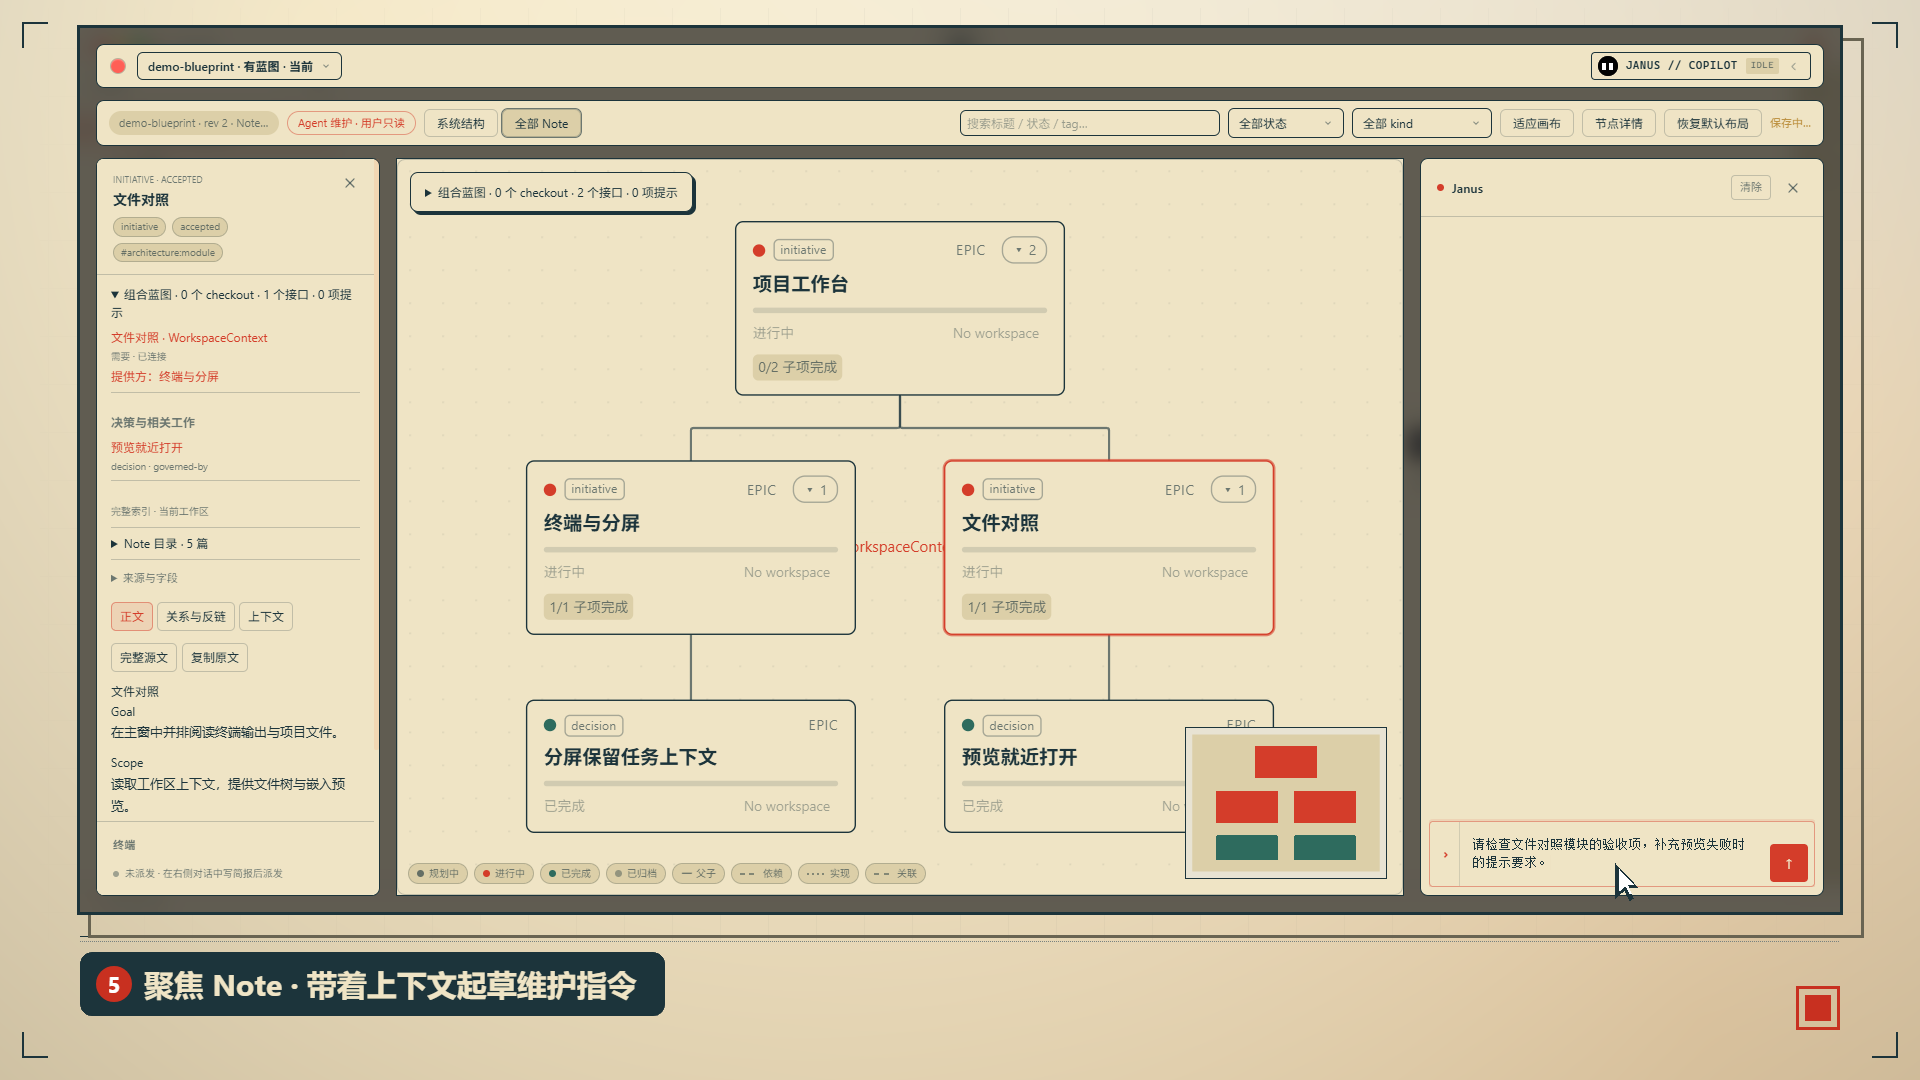
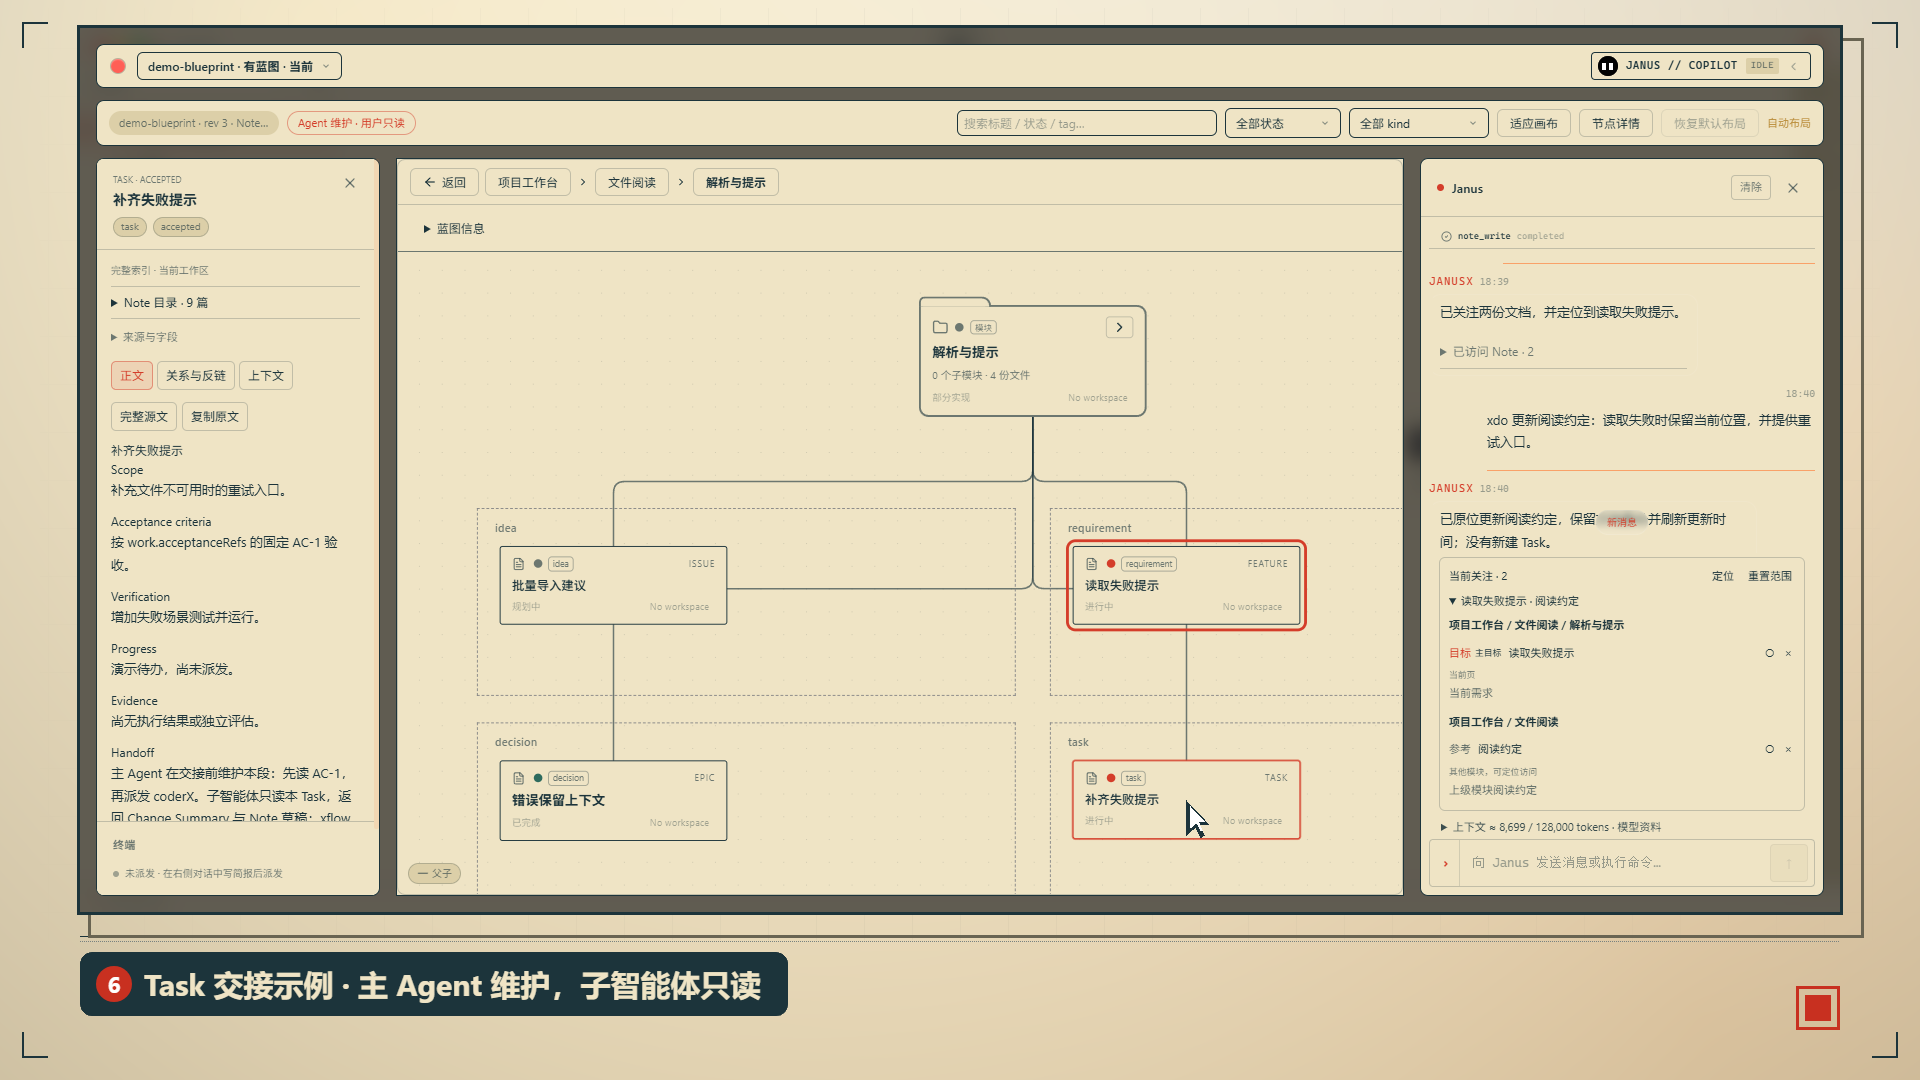
docs(showcase): demonstrate maintained modules and Note tools; Note .agents/notes/desktop/readme-showcase.md

diff --git a/README.md b/README.md
@@ -166,18 +166,18 @@ JanusX 桌面工作台（planche 石板色）
 
 ### 07 · 蓝图：把项目拆成看得见的结构
 
-在设置的创新功能中开启蓝图后，点击标题栏 **蓝图工作台**。顶部按工作区切换，**系统结构** 展示项目、模块与接口连接，**全部 Note** 展示规划和决策等记录；左侧阅读节点正文与关联信息，右侧 Janus Copilot 围绕当前焦点对话。
+在设置的创新功能中开启蓝图后，点击标题栏 **蓝图工作台**。单根项目直接展示根模块页：模块自身、直属子模块和文件同屏呈现。单击模块在左侧预览正文，双击进入该模块，保留父节点；通过面包屑逐层返回。
 
 <p align="center">
-  <img src="wiki/assets/showcase/feature-blueprint-workbench.gif" alt="蓝图演示：系统结构、模块接口、关联决策、全部 Note 与上下文对话" width="880" />
+  <img src="wiki/assets/showcase/feature-blueprint-workbench.gif" alt="蓝图演示：模块预览与逐层浏览、跨模块关注定位、原位维护 Note 和 Task 交接示例" width="880" />
   <br/>
-  <sub>真实应用录制：打开项目与模块结构 → 查看文件对照模块的职责和接口 → 追溯关联决策 → 切换全部 Note → 聚焦模块并起草维护指令。示例 Note 保存在隔离演示仓库；指令未发送，不调用模型。</sub>
+  <sub>真实应用录制：预览模块 → 进入子模块并返回 → 跨模块关注与定位 → 原位更新阅读约定 → 查看 Task 交接示例。九篇示例文档覆盖六种类型；本地脚本模型驱动真实读取、写入和界面更新，不调用外部模型。Task 是尚未执行的示例待办。</sub>
 </p>
 
-- **三列布局**：节点预览（目标 / 验收项 / 关联文件）· 项目规划图（parent / 接口 / 跨工作区边）· Janus 对话（带着当前焦点的一批 Note）。
-- **接口契约**：模块声明`提供 / 需要`的接口，悬空需求与闲置供给在图上一眼看出。
-- **单一控制面**：画布不承载写操作。对话框上方一条动作栏，三个主动作：`整理 Note` 把讨论整理成可审批提案（一次点击可全批非删除项，删除需单独确认）、`目标终端` 选派发目标、`派发` 让 Janus 整理涉及 Note 并写成实施简报预填进终端。需求正文以 Note 为准，经提案审批落盘。
-- **只读优先**：结构编辑本地可体验；AI 分析和维护需要模型配置。蓝图存为标准 harness note，规划与证据分离又可绑定。
+- **模块与文件有区别**：模块使用容器卡片，普通文件按类型分组。每层可同时保留主题文档和子模块，不要求所有内容都放到最底层。
+- **关注与浏览分开**：关注列表按模块分组；加入关注保留当前页面，明确预览、进入或定位时才导航。返回恢复先前选中、正文与视口。
+- **文档持续维护**：对话可调用共享 Note 工具，原位维护已有主题并刷新 `updated`。普通 `xdo` 不新建 Task；需要模型配置才能使用 AI 分析与维护。
+- **Task 承接交接**：主 Agent 在交接前更新同一 Task 的进展、证据和 Handoff；子智能体只读 Task 并返回结果。模块状态与执行验收分别维护。
 
 ---
 
@@ -314,17 +314,9 @@ npm run package:linux
 <details>
 <summary><b>蓝图 · 把项目拆成可查看的结构</b></summary>
 
-点击标题栏的 **蓝图工作台**，用树状节点组织目标、功能、任务和问题，查看节点详情、进度与关联信息。节点聚焦和 Janus Copilot 为围绕具体任务工作提供入口。新的石板色演示见上文「07 · 蓝图」。
+蓝图把 `.agents/notes/` 中的模块文档呈现为可逐层浏览的页面，左侧读取文档原文，右侧对话使用当前模块、选中项和关注列表。搜索可从完整来源定位所属模块；未归属文档、历史文档与解析诊断保留入口。
 
-**创新功能**：
-
-- **三列联动**：节点预览（目标 / 验收项 / 关联文件）· 项目规划图（parent / 接口 / 跨工作区边）· Janus 对话（带着当前焦点的一批 Note），点一个节点即三列联动。
-- **接口契约可视化**：模块声明`提供 / 需要`的接口，悬空需求与闲置供给在图上一眼看出。
-- **AI 驱动维护**：对话上下文跟着画布焦点走——选中节点读整棵子树，用搜索/状态/kind 筛选就读命中的那一批；Copilot 可分析节点、生成维护指令、提案 diff，对话确认后由 agent 核验指引宿主应用。
-- **对话派发到终端**：点「派发」一次，Janus 依据本次对话整理出涉及的 Note 并写成实施简报（目标 / 步骤 / 验收 / 约束），预填进目标终端。终端就是审阅面——读、改、回车才开工；终端绑定到节点，关闭时自动触发该节点的最终分析。
-- **规划证据分离**：蓝图存为标准 harness note，规划与证据分离又可绑定，支持跨工作区依赖追踪。
-
-结构编辑可在本地体验；AI 分析和维护需要模型配置。
+文档使用 `harness-note/2`：module、note、idea、requirement、decision、task 各自承担职责，稳定 UUID 标识文档。模块状态、文档生命周期和 Task 执行结果分别显示。当前导航与维护录制见上文「07 · 蓝图」；跨仓接入与独立评审进度见[接入计划](.agents/notes/blueprint/workflowx-v2-adoption.md)。
 
 </details>
 

diff --git a/.agents/notes/blueprint/workflowx-v2-adoption.md b/.agents/notes/blueprint/workflowx-v2-adoption.md
@@ -5,7 +5,7 @@
   "kind": "note",
   "lifecycle": "accepted",
   "created": "2026-10-08",
-  "updated": "2026-10-08T09:10:33.782Z",
+  "updated": "2026-10-08T10:44:48.910Z",
   "module": "note://972afef3-2fc7-49de-a3ee-7e041225d28c/f12d99b4-c116-48dc-96d9-e3ac74ae41cd",
   "codeRefs": [
     {"repoId":"972afef3-2fc7-49de-a3ee-7e041225d28c","path":"src/main/harness/note-authoring.ts","role":"entry"},
@@ -50,16 +50,16 @@ Chat 的 Note 工具复用共享服务，并保留 workspace.read、workspace.ed
 
 ## 后续实施顺序
 
-按依赖推进，不把 Main 自检等同于独立评审。当前 xdo 只维护目录及检查，不启动新正式 Task 执行。
+按依赖推进，不把 Main 自检等同于独立评审。当前 xdo 已完成目录、README 和演示资产及必要运行时修复，不启动新正式 Task 执行。
 
 | 顺序 | 工作 | 状态与出口 |
 | --- | --- | --- |
 | 1 | 统一模块浏览与单根首页 | 已实现并自检，保留父节点和逐层返回，见[浏览需求](navigation/requirements/module-browsing.md)。 |
 | 2 | 关注工具适配 | 已实现并自检，预览、进入、定位复用导航，见[关注需求](navigation/requirements/module-focus-navigation.md)。 |
 | 3 | 真实职责层级与文档归属 | 两批迁移已完成，身份、相对链接、代码反向引用和语料验证见[整理记录](module-responsibilities.md)。 |
-| 4 · 下一项 | README 示例和演示资产 | 以稳定目录和当前行为展示模块/子模块、关注定位、文档维护及 Task 交接，遵循[演示需求](note://d2499d5b-4ceb-4d46-aa3b-18e5c9b86034/ca370eb7-05a0-4bde-9539-4f9fddf77b2c)。 |
-| 5 | 最终独立评审与修复 | 复核最终代码、真实语料和演示；跨仓 Task 的 independent 义务仍待满足。发布和推送另行安排。 |
+| 4 | README 示例和演示资产 | 已实现并自检：三层目录、关注定位、xdo 原位维护与 Main-owned Task 交接；271 帧真实宿主演示使用本地脚本模型。构建来源、修复和验证见[演示记录](../desktop/readme-showcase.md)，跨仓完成情况见[演示需求](note://d2499d5b-4ceb-4d46-aa3b-18e5c9b86034/ca370eb7-05a0-4bde-9539-4f9fddf77b2c)。 |
+| 5 · 下一项 | 最终独立评审与修复 | 复核最终代码、真实语料和演示；跨仓 Task 的 independent 义务仍待满足。正式执行前先修订旧 AC-4 交互措辞并固定新基线；发布和推送另行安排。 |
 
 ## 验证与边界
 
-验证命令、结果和仍待独立评审的项目见 [接入验证](../../../docs/migrations/workflowx-v2-verification.md)。桌面测试使用本地确定性 HTTP 模型驱动真实 Electron、IPC、工具与回执；它验证集成路径，不代表外部真实模型的质量或生产发布。独立评审与 README 演示仍由 [跨仓接入 Task](note://d2499d5b-4ceb-4d46-aa3b-18e5c9b86034/2ce416be-b118-40c4-bddc-87da25a8fe02)跟踪。
+验证命令、结果和仍待独立评审的项目见 [接入验证](../../../docs/migrations/workflowx-v2-verification.md)。桌面测试使用本地确定性 HTTP 模型驱动真实 Electron、IPC、工具与回执；它验证集成路径，不代表外部真实模型的质量或生产发布。演示追加采用 agentX `d6cd44569eee3c36c637a996131a1303b3900bde` 的工具修复判断，以及 JanusX `dc8a639` 的关闭采集收尾修复；原接入基线和回执不改写。独立评审与 README 完成状态由 [跨仓接入 Task](note://d2499d5b-4ceb-4d46-aa3b-18e5c9b86034/2ce416be-b118-40c4-bddc-87da25a8fe02)跟踪。

diff --git a/scripts/showcase/README.md b/scripts/showcase/README.md
@@ -52,7 +52,13 @@ node scripts/showcase/compose.mjs --manifest .cache/showcase/product-xxxxxx --ou
 
 原始帧和包含字幕、鼠标位置的 `manifest.json` 保存在 `.cache/showcase/<功能>-<随机后缀>/`。成功录制才更新 `.cache/showcase/<功能>-latest.json`；失败返回非零退出码，`build` 随即停止，不会拿旧帧合成。合成只写指定功能的 GIF 与末帧 PNG。旧版缺少字幕的 manifest 需重新录制，已提交 GIF 不受影响。
 
-各录制实例使用独立的临时用户目录。涉及 CLI 的脚本需要对应 CLI 已安装；`split` 需要 Claude、Codex、OpenCode、Pi，`session` 需要 Claude。现有 `seedFixture` 会复制本机 Claude / OpenCode 登录文件到临时目录，结束后清理。`product` 只用本地文件和 Shell，不复制登录文件，也不调用模型。`blueprint` 在临时配置中开启蓝图，以五篇本地 Note 展示系统结构、模块接口、关联决策和全部 Note；最后逐字输入维护指令但不发送，不复制登录文件或调用模型。
+各录制实例使用独立的临时用户目录。涉及 CLI 的脚本需要对应 CLI 已安装；`split` 需要 Claude、Codex、OpenCode、Pi，`session` 需要 Claude。现有 `seedFixture` 会复制本机 Claude / OpenCode 登录文件到临时目录，结束后清理。`product` 只用本地文件和 Shell，不复制登录文件，也不调用模型。
+
+`blueprint` 使用九篇 v2 文档，覆盖三层模块、父层普通 Note 和六种文档类型。录制断言验证单击预览、双击进入、保留父节点、返回、跨模块关注与定位，以及 `note_read` / `note_write` 原位维护：UUID、created 和文档数量不变，updated 刷新。Task 仅展示 Main-owned Handoff，尚无执行或验收结果。
+
+蓝图录制的 `blueprint-model.mjs` 在回环地址提供确定性 Responses 模型，只驱动预设操作；真实 Electron、IPC、Note 工具和磁盘写入仍照常运行。不复制登录文件，不调用外部模型；这些断言不评价模型质量。录制成功后，manifest 的 evidence 保存工具调用、文档身份、时间变化和构建来源。
+
+需要录制隔离版本时，设置 `SHOWCASE_ENTRY` 为该版本已构建的 `out/main/index.js` 绝对路径，`SHOWCASE_SOURCE_COMMIT` 为 JanusX 源码提交，`SHOWCASE_AGENT_COMMIT` 为已构建共享依赖的 agentX 提交。默认入口为当前目录的构建产物；必须自行确保产物与所声明源码一致。录制会等待对话结束并检查错误卡片，成功写文件但对话报错也会失败。
 
 ## 调整公共参数
 
